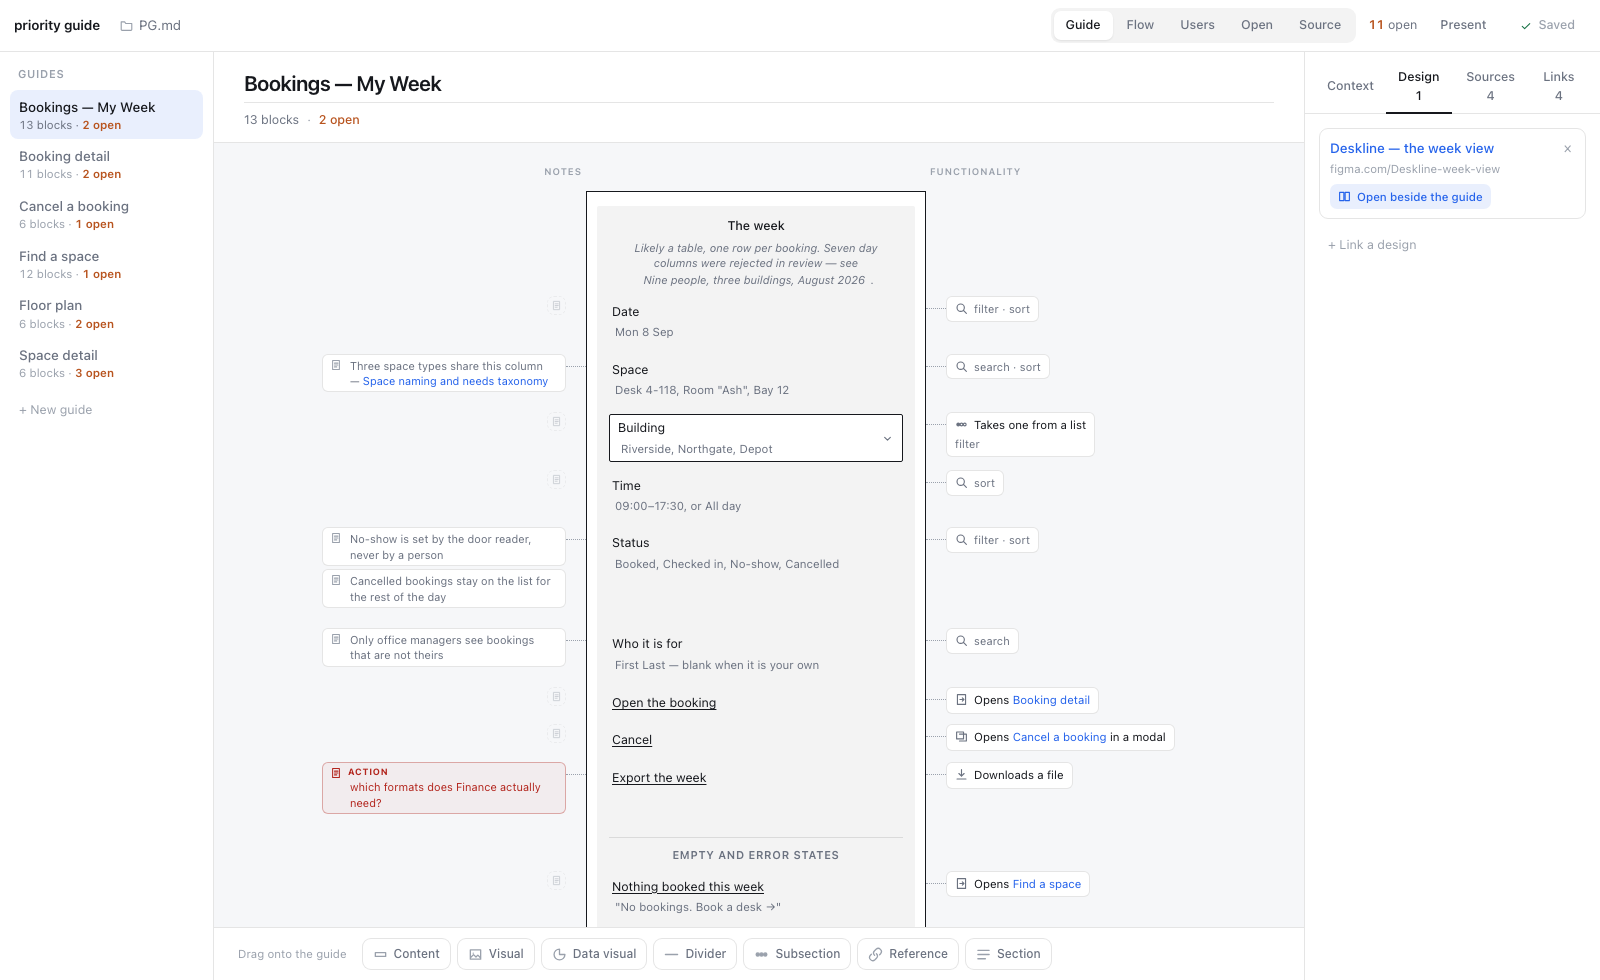
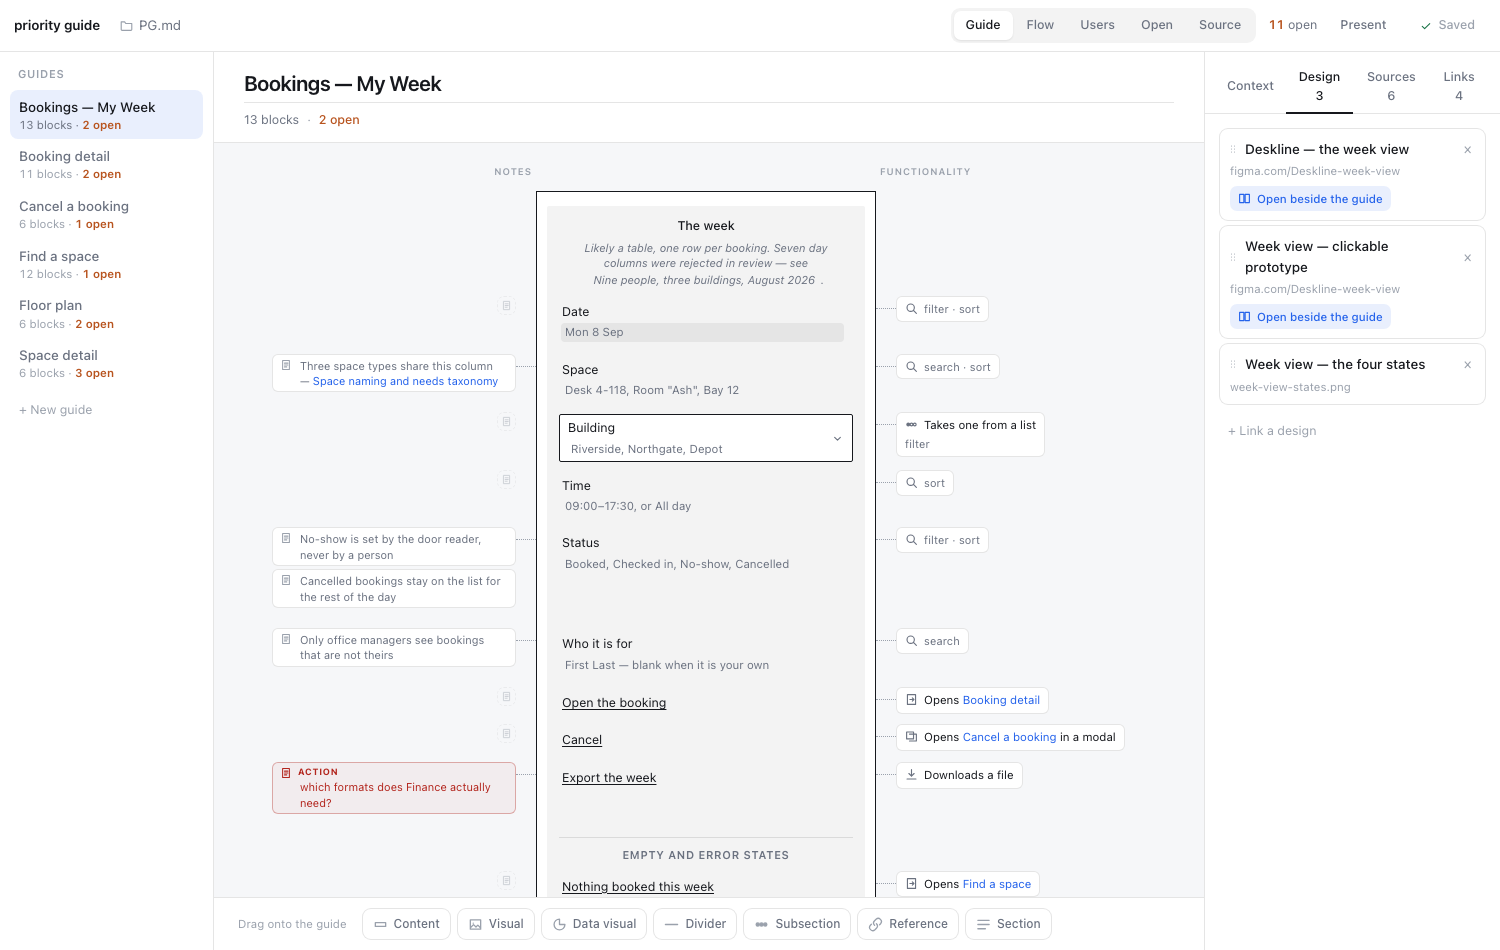
Order, rename and unlink a design; pin the per-guide scoping
The four panels were already scoped to the selected guide — checked by switching
between three guides and comparing what each tab showed, then written down as a
test so it stays that way. Context carries that guide's own goals, Design its
own artifacts, Links its own routes. Sources lists what this guide cites, with
what else is in the file kept under its own heading, because attaching an
existing source is the reason to see it.

Designs are now a list you can work: drag a card to reorder, click its name to
rename, one click to unlink with an undo. Renaming writes the source's own name,
so every guide citing that document follows — it is one document, and it has one
name. Unlinking takes it off the guide and leaves the source in the file.

The fixture carries three designs on one guide, one of them not a Figma link, so
ordering is something the tests can actually see and the side-by-side offer is
only made where it can be honoured.

56 parser tests, 289 browser tests.

Claude-Session: https://claude.ai/code/session_01EFxrygDVQa9TN9e8CF7WDN

diff --git a/index.html b/index.html
@@ -520,14 +520,25 @@ body.present .guide{--lane-l:300px; --stack:400px; --lane-r:320px}
 .src .quiet{margin-top:4px;display:block}
 
 /* ---------- design ---------- */
-.dcard{padding:9px 10px;border-radius:9px;margin-bottom:4px;border:1px solid var(--line)}
+.dcard{padding:9px 10px;border-radius:9px;margin-bottom:4px;border:1px solid var(--line);
+  position:relative;background:var(--panel)}
 .dcard:hover{border-color:var(--dim)}
+.dcard.lifting{opacity:.4}
+.dcard.dropbefore{box-shadow:inset 0 2px 0 var(--accent)}
+.dcard.dropafter{box-shadow:inset 0 -2px 0 var(--accent)}
 .dcard .h{display:flex;align-items:center;gap:6px}
-.dcard .title{font-weight:500;text-align:left;flex:1;min-width:0}
+.dcard .grip{color:var(--faint);display:flex;cursor:grab;flex:none;margin-left:-3px}
+.dcard:hover .grip{color:var(--dim)}
+.dcard .title{font-weight:500;text-align:left;flex:1;min-width:0;padding:1px 3px;
+  margin-left:-3px;border-radius:4px;color:var(--ink)}
+.dcard .title:hover{background:var(--hover)}
+.dcard .title:focus{outline:none;background:var(--accent-soft)}
 .dcard .x{margin-left:auto;color:var(--faint);font-size:14px;line-height:1;padding:0 3px;
   border-radius:4px}
 .dcard .x:hover{color:var(--act);background:rgba(179,38,30,.1)}
-.dcard .u{font-size:11.5px;color:var(--faint);word-break:break-all;display:block;margin-top:2px}
+.dcard .u{font-size:11.5px;color:var(--faint);word-break:break-all;display:block;margin-top:2px;
+  text-align:left;padding:0}
+.dcard .u:hover{color:var(--accent)}
 .sidebyside{display:inline-flex;align-items:center;gap:6px;margin-top:7px;font-size:11.5px;
   color:var(--accent);padding:4px 8px;border-radius:7px;background:var(--accent-soft);
   font-weight:500}
@@ -656,7 +667,7 @@ import {
   parseUsers, renderUsers, userTypes, renameUserType, handleFor, isWebUrl, refsIn, hasAction,
   moveGuide, placeGuide, removeGuide, setKind, CHART_KINDS, BLOCK_KINDS,
   guideRefs, addGuideRef, setGuideRef, removeGuideRef,
-  designLinks, figmaEmbed, isFigma,
+  designLinks, figmaEmbed, isFigma, setSourceTitle,
   proseOf, setProse,
   LINK_TYPES, FORM_TYPES, CAPABILITIES, GUIDE_FIELDS
 } from './parser.js';
@@ -1316,6 +1327,7 @@ const GLYPH = {
   source: 'M9 7.2a3.4 3.4 0 010 4.8l-1.6 1.6a3.4 3.4 0 01-4.8-4.8l1-1M7 8.8a3.4 3.4 0 010-4.8l1.6-1.6a3.4 3.4 0 014.8 4.8l-1 1',
   chev: 'M4.5 6.5L8 10l3.5-3.5',
   sideby: 'M2 3h5.2v10H2zM8.8 3H14v10H8.8z',
+  grip: 'M6 4h.01M10 4h.01M6 8h.01M10 8h.01M6 12h.01M10 12h.01',
   folder: 'M1.5 3.5h4.2l1.4 2h7.4v7.5a1 1 0 01-1 1H2.5a1 1 0 01-1-1z',
   plus: 'M8 3.5v9M3.5 8h9',
   info: 'M8 2.2a5.8 5.8 0 100 11.6A5.8 5.8 0 008 2.2zM8 7.2v4M8 5.1v.01',
@@ -2959,30 +2971,54 @@ function sourceCard(s, here) {
 function panelDesign(body) {
   const g = S.guide;
   const links = designLinks(S.doc, g);
+  const order = () => refsIn(g.fields.design);
+  const write = (handles) => {
+    setField(g, 'design', handles.map((h) => `[${h}]`).join(', '));
+    mark(); render();
+  };
 
   if (!links.length) {
     body.appendChild(el('div', 'rail-empty',
       'Nothing linked yet. A Figma file, a prototype, a screenshot — whatever this guide became.'));
   }
 
-  for (const d of links) {
+  links.forEach((d, i) => {
     const c = el('div', 'dcard' + (d.figma ? ' figma' : ''));
     const head = el('div', 'h');
-    const link = outLink(d.url, d.title, d.url);
-    link.classList.add('title');
-    head.appendChild(link);
+
+    if (!S.readOnly) {
+      const grip = el('span', 'grip');
+      grip.appendChild(icon('grip', 12));
+      grip.title = 'Drag to reorder';
+      head.appendChild(grip);
+    }
+
+    // The name is the thing you read, so it is the thing you click to change.
+    // It belongs to the source, so every guide citing it follows.
+    const name = el('div', 'title');
+    name.textContent = d.title;
+    if (S.readOnly) name.title = d.url;
+    else {
+      name.title = 'Rename. This is the source’s name, so it changes everywhere it is cited.';
+      editable(name, d.title, (v) => { if (v) setSourceTitle(S.doc, g, d.handle, v); });
+    }
+    head.appendChild(name);
+
     if (!S.readOnly) {
       const x = el('button', 'x', '×');
       x.title = 'Unlink from this guide. The source stays in the file.';
       x.onclick = () => {
-        const left = refsIn(g.fields.design).filter((h) => h !== d.handle);
-        setField(g, 'design', left.map((h) => `[${h}]`).join(', '));
-        mark(); render();
+        const before = order();
+        write(before.filter((h) => h !== d.handle));
+        undoable(`“${d.title}”`, () => write(before));
       };
       head.appendChild(x);
     }
     c.appendChild(head);
-    c.appendChild(el('div', 'u', shortUrl(d.url)));
+
+    const open = outLink(d.url, shortUrl(d.url), d.url);
+    open.classList.add('u');
+    c.appendChild(open);
 
     if (d.figma) {
       const b = el('button', 'sidebyside');
@@ -2991,8 +3027,43 @@ function panelDesign(body) {
       b.onclick = () => { S.beside = d; render(); };
       c.appendChild(b);
     }
+
+    if (!S.readOnly) {
+      c.draggable = true;
+      c.ondragstart = (e) => {
+        S.dragDesign = d.handle; c.classList.add('lifting');
+        e.dataTransfer.effectAllowed = 'move';
+        e.dataTransfer.setData('text/plain', d.title);
+      };
+      c.ondragend = () => {
+        S.dragDesign = null;
+        document.querySelectorAll('.dcard').forEach((n) =>
+          n.classList.remove('lifting', 'dropbefore', 'dropafter'));
+      };
+      c.ondragover = (e) => {
+        if (!S.dragDesign || S.dragDesign === d.handle) return;
+        e.preventDefault();
+        const r = c.getBoundingClientRect();
+        const below = e.clientY > r.top + r.height / 2;
+        c.classList.toggle('dropbefore', !below);
+        c.classList.toggle('dropafter', below);
+      };
+      c.ondragleave = () => c.classList.remove('dropbefore', 'dropafter');
+      c.ondrop = (e) => {
+        e.preventDefault();
+        const below = c.classList.contains('dropafter');
+        c.classList.remove('dropbefore', 'dropafter');
+        const moving = S.dragDesign;
+        S.dragDesign = null;
+        if (!moving || moving === d.handle) return;
+        const list = order().filter((h) => h !== moving);
+        let at = list.indexOf(d.handle) + (below ? 1 : 0);
+        list.splice(Math.max(0, Math.min(at, list.length)), 0, moving);
+        write(list);
+      };
+    }
     body.appendChild(c);
-  }
+  });
 
   if (S.readOnly) return;
   const add = el('button', 'rail-add', '+  Link a design');
@@ -3012,9 +3083,7 @@ function panelDesign(body) {
       action: 'Link'
     });
     const entry = addSource(S.doc, { handle: handleFor(title || url, S.doc), url, title: title || '' });
-    const cur = (g.fields.design || '').trim();
-    setField(g, 'design', cur ? `${cur}, [${entry.handle}]` : `[${entry.handle}]`);
-    mark(); render();
+    write([...order(), entry.handle]);
   };
   body.appendChild(add);
 }

diff --git a/parser.js b/parser.js
@@ -1256,6 +1256,25 @@ export function removeGuide(doc, guide) {
 }
 
 /**
+ * Rename a source. The definition is shared, so every guide citing it follows —
+ * which is right: it is one document, and it has one name.
+ */
+export function setSourceTitle(doc, guide, handle, title) {
+  const def = resolveSource(doc, guide, handle);
+  if (!def) return false;
+  def.title = norm(title);
+  def.dirty = true;
+  for (const seg of doc.segments) {
+    if (seg.kind === 'sources' && seg.entries.includes(def)) { seg.dirty = true; return true; }
+    if (seg.kind !== 'guide') continue;
+    for (const sec of seg.sections) {
+      if (sec.kind === 'sources' && sec.entries.includes(def)) { sec.dirty = true; seg.dirty = true; return true; }
+    }
+  }
+  return true;
+}
+
+/**
  * Write a source down once. Defined at file level by default, because the whole
  * point is that one Confluence page can be cited from twenty rows across five
  * guides without the URL being repeated anywhere.

diff --git a/fixtures/deskline.md b/fixtures/deskline.md
@@ -17,7 +17,7 @@ These guides capture what each screen needs before anything is laid out.
 **Primary users:** Everyone with a desk (primary) · Office manager
 **Notes:** The week view is the landing screen. A day view was asked for and deferred.
 **Sources:** [brief], [interviews]
-**Design:** [week-layout]
+**Design:** [week-layout], [week-proto], [week-shots]
 
 ### The week
 
@@ -183,3 +183,5 @@ These guides capture what each screen needs before anything is laid out.
 [policy]: ./decisions.md#late-cancellation "Late cancellation — decided 2026-08-14"
 [refs]: <./research/Booking reference format.md> "Why references are 4 digits plus a checksum"
 [week-layout]: https://www.figma.com/design/DesklineExample1/Deskline-week-view "Deskline — the week view"
+[week-proto]: https://www.figma.com/proto/DesklineExample1/Deskline-week-view "Week view — clickable prototype"
+[week-shots]: <./design/week-view-states.png> "Week view — the four states"

diff --git a/README.md b/README.md
@@ -190,9 +190,11 @@ that is how markdown reference definitions work.
 | **Open** | Every `ACTION:` and every `??`, with the block it came from. |
 | **Source** | The markdown. |
 
-Beside each guide sit four tabs: **Context** (what it is for, who for),
-**Design** (what it turned into — a Figma link can be opened in a split view
-next to a read-only copy of the guide), **Sources** and **Links**.
+Beside each guide sit four tabs, and **all four belong to the guide you are
+on** — its own goals, its own designs, its own sources, its own links:
+**Context** (what it is for, who for), **Design** (what it turned into — drag to
+reorder, click a name to rename it, and a Figma link opens in a split view next
+to a read-only copy of the guide), **Sources** and **Links**.
 
 ![Flow](screenshots/03-flow.png)
 
